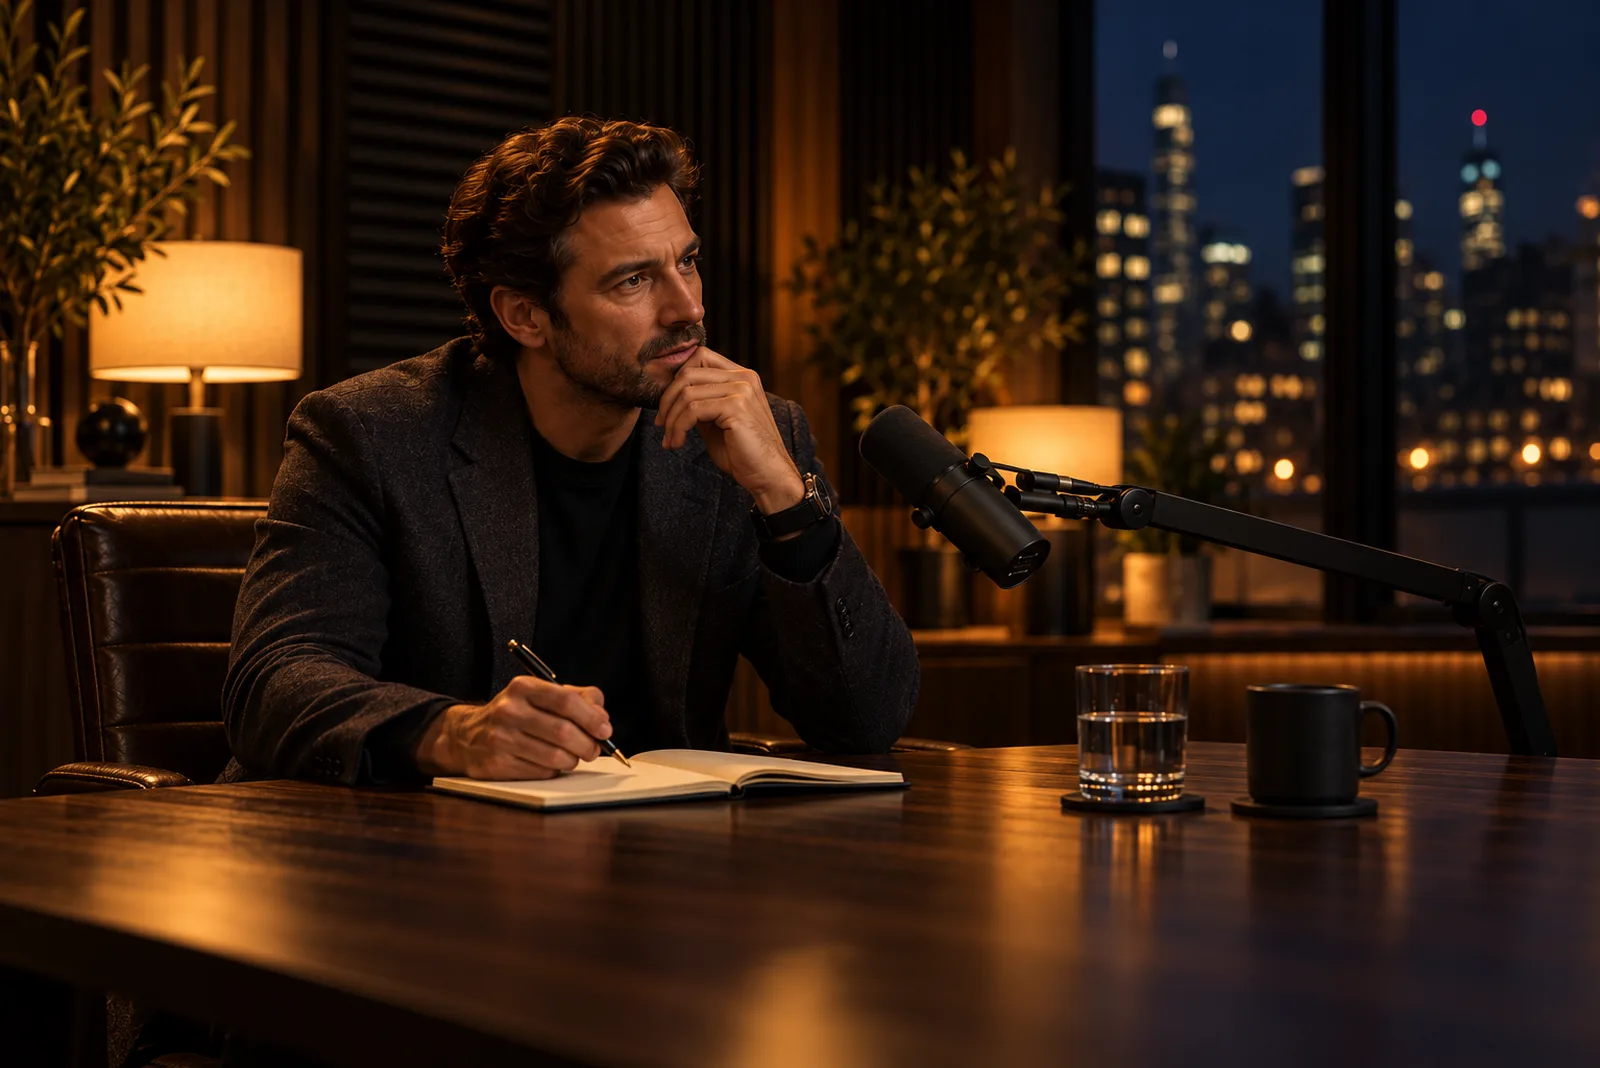
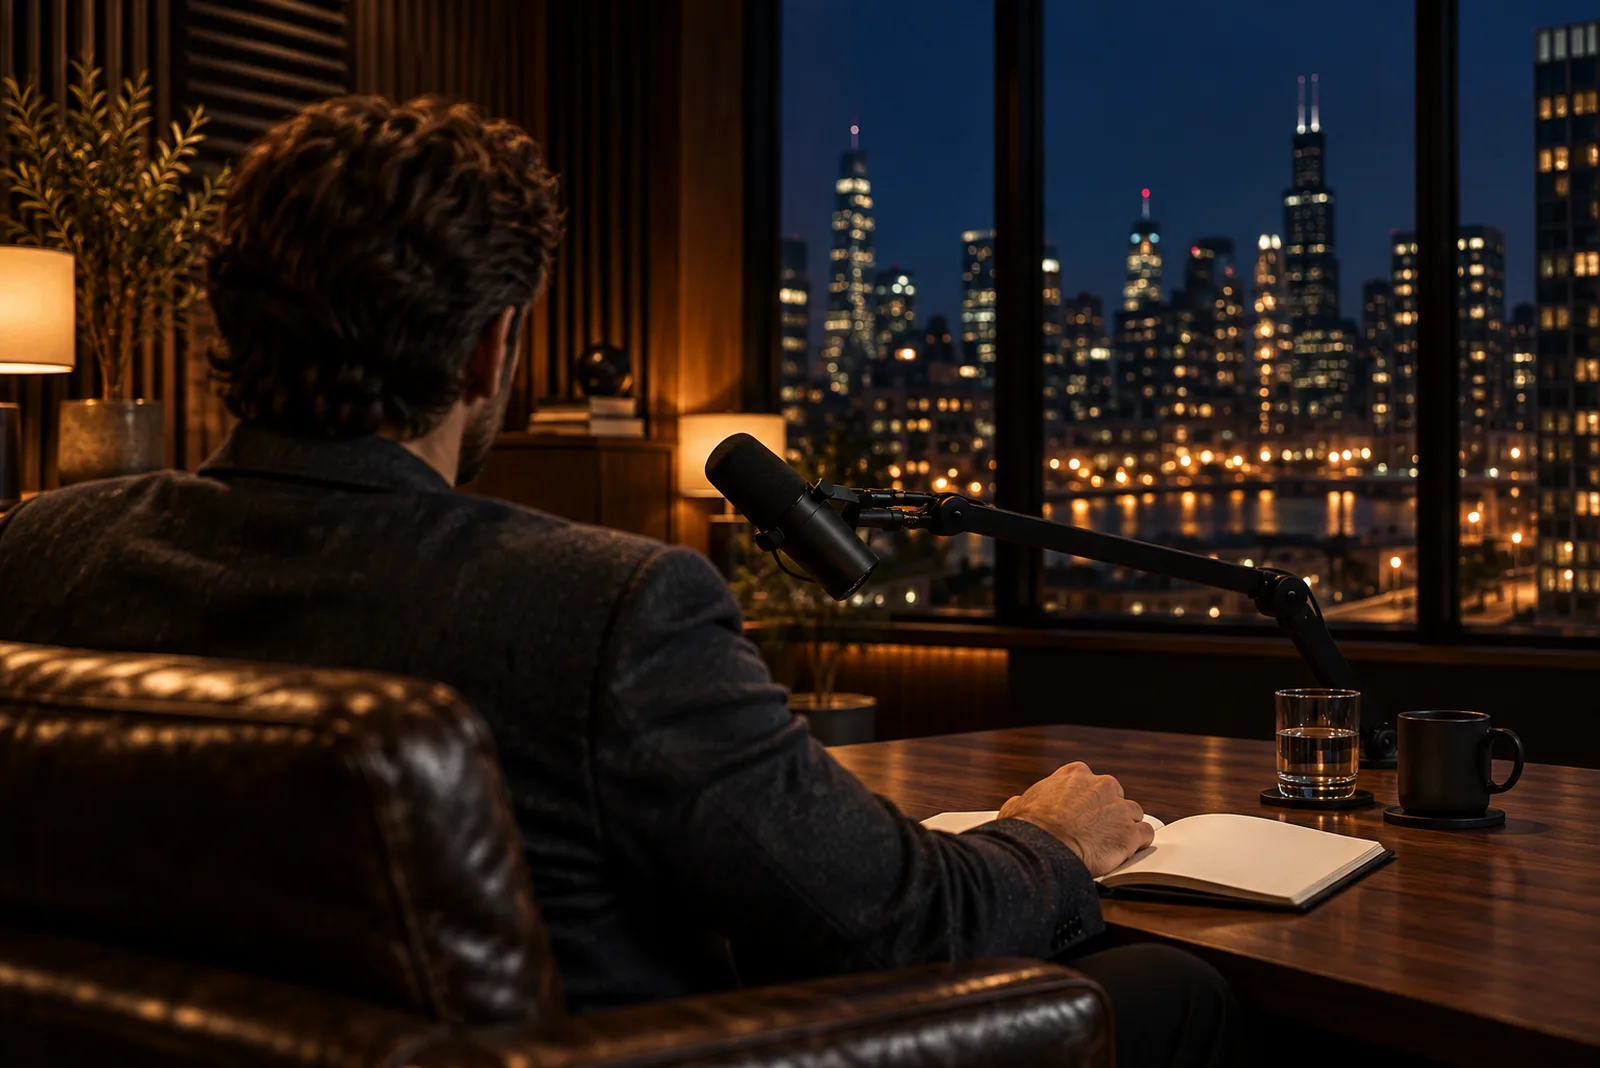
Three photographs from the set, each its own shot: over his shoulder to the city, the long table with the silent phone, his hands sketching

diff --git a/index.html b/index.html
@@ -634,7 +634,7 @@ html body .rm-sec{background:radial-gradient(70% 90% at 90% 0%,rgba(255,224,198,
 <section class="belief" id="what">
   <div class="wrap">
     <figure class="belief-card">
-      <div class="belief-pic" aria-hidden="true"><img src="assets/site/belief-whiteboard.webp?v=2" alt="" loading="lazy" width="1600" height="1068"></div>
+      <div class="belief-pic" aria-hidden="true"><img src="assets/site/belief-whiteboard.webp?v=3" alt="" loading="lazy" width="1600" height="1068"></div>
       <p class="belief-t">This is for you if you believe that <span class="hl">sharing what you solved, and what failed</span>, helps the next person in your shoes, and that this is <span class="hl">how a buyer comes to trust you</span>.</p>
     </figure>
   </div>
@@ -642,7 +642,7 @@ html body .rm-sec{background:radial-gradient(70% 90% at 90% 0%,rgba(255,224,198,
 
 <!-- 3 the tension -->
 <section class="familiar">
-  <div class="fam-pic" aria-hidden="true"><img src="assets/site/tension-desk.webp?v=2" alt="" loading="lazy" width="1600" height="1068"></div>
+  <div class="fam-pic" aria-hidden="true"><img src="assets/site/tension-desk.webp?v=3" alt="" loading="lazy" width="1600" height="1068"></div>
   <div class="wrap">
     <p class="quote rv">Maybe you started posting, kept it up for a few weeks, and then a deadline took over.</p>
     <p class="quote rv">Maybe a buyer you'd have been perfect for picked someone he'd seen online, and you only heard about it later.</p>
@@ -673,7 +673,7 @@ html body .rm-sec{background:radial-gradient(70% 90% at 90% 0%,rgba(255,224,198,
 <!-- 5 for you, not for you -->
 <section class="fit">
   <div class="wrap">
-    <div class="side yes rv"><div class="side-pic"><img src="assets/site/fit-redpen.webp?v=2" alt="" loading="lazy" width="1200" height="1800"></div><div class="side-t"><span class="mark"><svg><use href="#i-check"/></svg></span><p>It's for you if you already have stories worth sharing from your projects, and you'd rather the right buyers hear them than keep waiting for the next referral.</p></div></div>
+    <div class="side yes rv"><div class="side-pic"><img src="assets/site/fit-redpen.webp?v=3" alt="" loading="lazy" width="1200" height="1800"></div><div class="side-t"><span class="mark"><svg><use href="#i-check"/></svg></span><p>It's for you if you already have stories worth sharing from your projects, and you'd rather the right buyers hear them than keep waiting for the next referral.</p></div></div>
     <div class="side no rv"><div class="side-pic"><img src="assets/site/fit-street.webp?v=2" alt="" loading="lazy" width="1600" height="1067"></div><div class="side-t"><span class="mark"><svg viewBox="0 0 18 18"><path d="M4.5 4.5l9 9M13.5 4.5l-9 9" fill="none" stroke="currentColor" stroke-width="2" stroke-linecap="round"/></svg></span><p>It's not for you if you want fast results from ads, or if you'd rather keep your stories to yourself, because the trust we help you earn comes from what you share and grows the longer you show up.</p></div></div>
   </div>
 </section>
